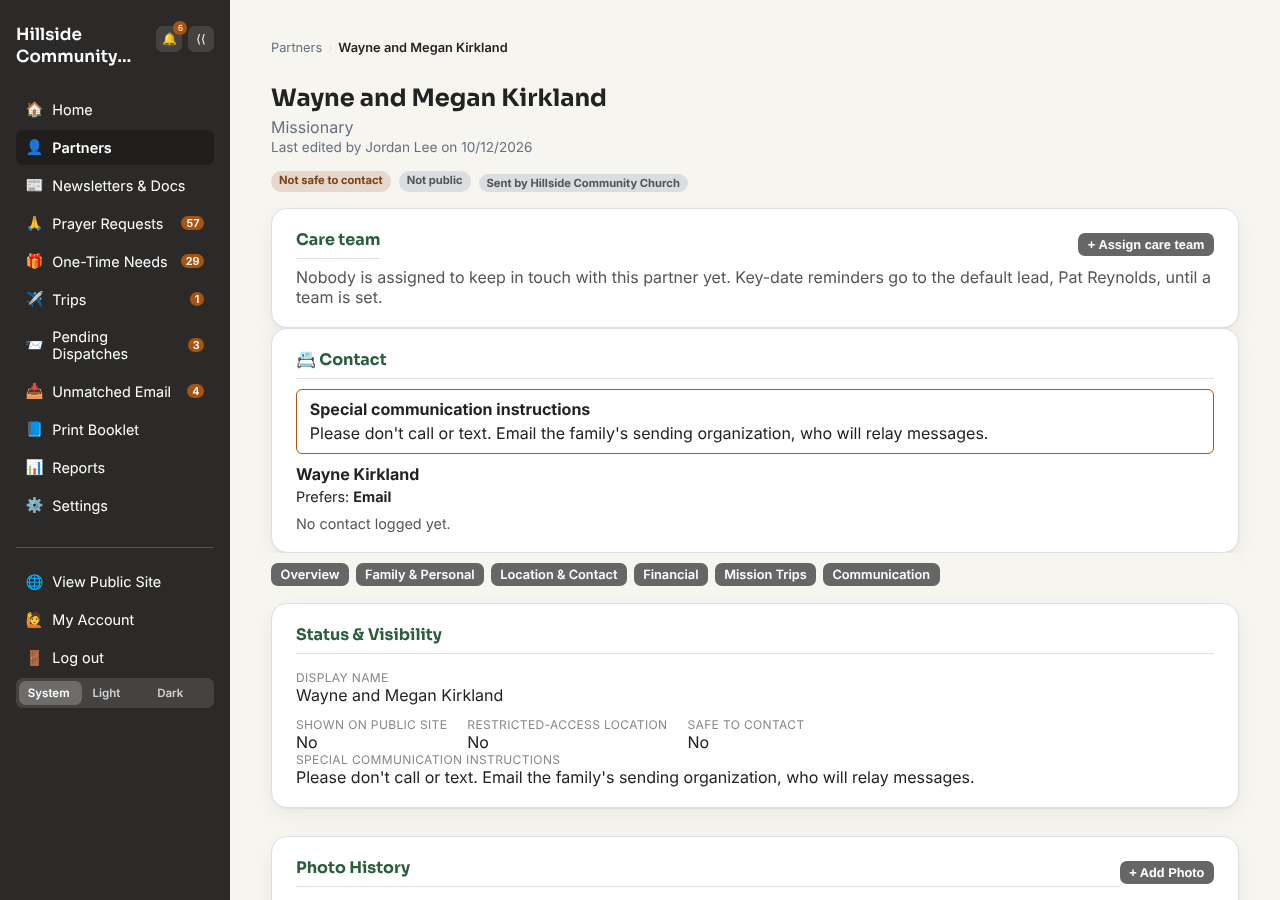
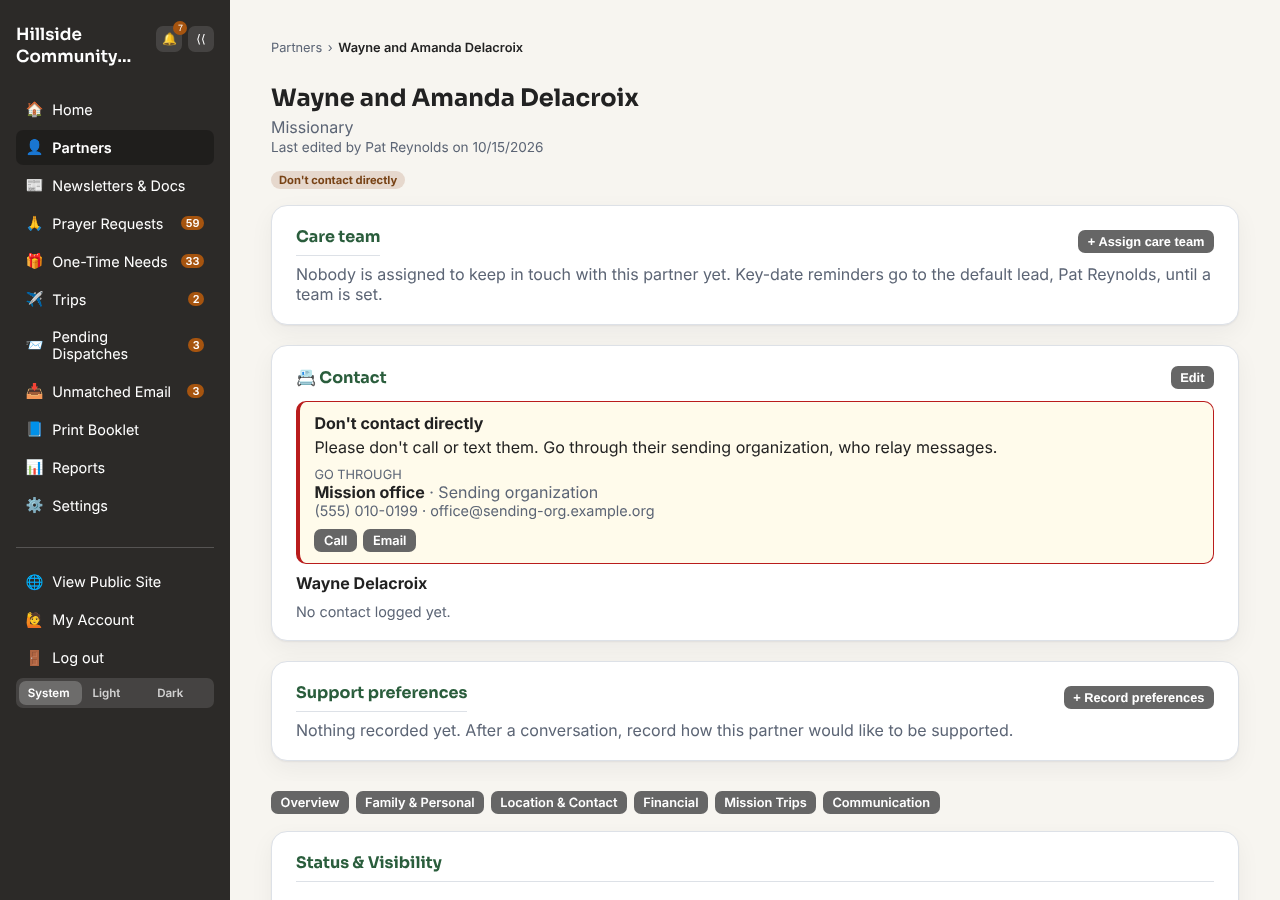
Contact card: hide a family's other preferences when we are not to contact them; recapture the screenshots the card and filter changes made stale
Claude-Session: https://claude.ai/code/session_01MmRKDYXLtPvHu3ZZXFwPQ9

diff --git a/frontend/src/components/admin/ContactCard.jsx b/frontend/src/components/admin/ContactCard.jsx
@@ -74,7 +74,7 @@ export default function ContactCard({
   const days = last ? daysBetweenInputs(todayInputValue(), last) : null;
 
   // Who else is in the family, and how they like to be reached.
-  const others = isOrg ? [] : adults.filter((a) => a.id !== person?.adultId && a.contactMethod);
+  const others = isOrg || hidden ? [] : adults.filter((a) => a.id !== person?.adultId && a.contactMethod);
   const preferred = person?.method ? methodLabel(person.method, person.methodNote) : "";
 
   return (

diff --git a/backend/prisma/seed.js b/backend/prisma/seed.js
@@ -3194,6 +3194,8 @@ async function seedContactLogDemo() {
     select: { id: true },
   });
   if (careful) {
+    // Their family prefers email too, so the card and the guidelines agree.
+    await prisma.adult.updateMany({ where: { partnerId: careful.id }, data: { contactMethod: "email" } });
     await prisma.partner.update({
       where: { id: careful.id },
       data: {

diff --git a/USER_GUIDE.md b/USER_GUIDE.md
@@ -932,12 +932,15 @@ With **Contact log** turned on in [Enabled Features](ADMIN_GUIDE.md#feature-togg
 
 - **The contact card** is where who to reach, how they like to be reached and how careful to be are shown and **edited** (**Edit** on the card): who to reach first (the adult marked **Primary contact**, picked from a list, or an organization's named contact), **how each person likes to be reached** (a phone call, text, email, WhatsApp, Signal, Messenger or another way), highlighted as "Prefers Email", one-tap **Call**, **Text**, **Email** and **WhatsApp** buttons, and when anyone last was in touch. Anyone else in the family who has their own preference is listed under it. The card is there even when the contact log is off; only the "last contact" line needs the log.
 
-![A partner's Contact card, and the special communication instructions that replace the buttons when a partner isn't safe to contact](docs/assets/screenshots/contact-card-instructions.png)
+![A partner's Contact card for a partner we are not to contact directly: who to go through, with their own Call and Email buttons, in place of the family's details](docs/assets/screenshots/contact-card-instructions.png)
 
 - **How careful to be** is one of three settings, chosen by staff on the card:
   - **Normal:** reach them as usual.
   - **Use caution:** their details and buttons stay, under a warning that carries your **guidelines** (for example "email only, and don't use the word mission in a subject line"). You can limit the ways it is ok to reach them, and then only those buttons show, so nobody texts someone who is email-only.
-  - **Don't contact directly:** their phone, email, buttons and preferred way are hidden, replaced by **who to go through** (a name, role, phone and email, with their own **Call** and **Email** buttons) and the guidelines. The printed booklet also leaves out their phone, email, address and preferred way.
+
+![A Contact card under Use caution: the guidelines in a warning, and only the Email button](docs/assets/screenshots/contact-card-caution.png)
+
+- **Don't contact directly:** their phone, email, buttons and preferred way are hidden, replaced by **who to go through** (a name, role, phone and email, with their own **Call** and **Email** buttons) and the guidelines. The printed booklet also leaves out their phone, email, address and preferred way.
 - **Log a contact** with **+ Log contact**: pick what happened (call, text, email, visit, card, video, prayed for them), who reached out, optional topics, the date, who made the contact (you, by default), an optional note and an optional **follow up by** date. Anyone who can see the partner can log one. Only an admin or editor can edit or delete an entry.
 
 ![The Log a contact dialog](docs/assets/screenshots/log-a-contact.png)
